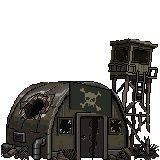
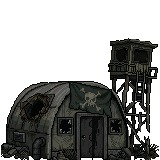
M7 village: Command Post church-style redraw + backlit soldiers + glow, Gym T5 lifter at door scale (sw v387)

diff --git a/sw.js b/sw.js
@@ -15,7 +15,7 @@
  * edited CSS/JS) so returning users pick up the update instead of serving a
  * stale cached shell forever — the whole point of a version string here.
  */
-const CACHE_NAME = 'deadline-shell-v386';
+const CACHE_NAME = 'deadline-shell-v387';
 
 const APP_SHELL = [
     './',

diff --git a/docs/ART_STYLE.md b/docs/ART_STYLE.md
@@ -400,6 +400,16 @@ Replaces the olive tent camp with a military QUONSET BUNKER (Claude's suggestion
 - **For wiring:** visible art x T1 1..158 (1 px margin), T2-T4 2..156, T5 2..159 (flag, 0 px margin, accepted as with the Police station), so `VILLAGE_ART_X.slain` ~ [1,160] (measure the five PNGs). Top row T1 38, T2 37, T3/T4 28, T5 6 (flag). Every tier's lowest row is 159 (walls stand on it, no light spill), like the Police station; check the `raise` against the Gym/Police when placed. Animation spots: the siren (T5), the antenna's red light (T5), the sign lamp, the string lights, the flag.
 - **Lessons (2026-11-15):** (1) transplanting a part from another seed (the tower) beat re-describing it; (2) inpaint-v3 is weak for thin/tall things over sky (weeds, a lantern): drew those in code or redid them as low PixelLab clumps; (3) do geometry (tilts, leg/ladder damage) on the upright part first, then rotate the finished layer, so the damage stays lined up; (4) when moving/tilting a sign, inpaint what was hidden behind it; (5) the device bridge again left 3 files stale after `written` -- always re-stage and compare.
 
+### Command Post CHURCH-STYLE redraw (`slain`) -- DONE + WIRED 2026-11-17 (sw v387; supersedes the look of the 2026-11-15 art above, same Quonset layout)
+Why (Jeremy 2026-11-17): next to the church, Police and Gym the Quonset read as cartoonish -- thick pure-black lines, shiny white roof streaks, flat lemon windows, warmer/more saturated. Kept: every shape, prop and tier story of the 2026-11-15 ladder.
+- **Style pass:** PixelLab `edit-images-v2` `edit_with_text`, seed 6, one 160x160 image per call ("Too many frames: 2, max is 1"), prompt = keep shapes; realistic gritty moody night church look; MATTE weathered olive-drab corrugated roof, no shiny highlights; thin dark outlines not pure black. Then in code: keep the pass's LUMA, take Cb/Cr from the original (x0.62/0.68/0.74/0.76/0.78 for T1..T5, a touch cooler), mean luma 15/20/25/28/31 (Police-like ladder), lights re-coloured lemon -> amber (255,212,150), stray white edge pixels cleaned. Shape preserved exactly (original alpha reused).
+- **Soldiers:** big enough for eye pixels, NO eye whites, lit like the T5 jeep gunner (dark blue-grey helmet, plain olive uniform, shaded skin). Tower guards are BACKLIT by the shack window: no glow on their window box, faint warm rim only. Palette pass = `scripts/cp_guard_palette.py` (rank-maps helmet / skin / uniform pixels onto the gunner's colours). T4: standing watch, low-brim helmet (inpaint seed 71). T5: aiming a rifle (inpaint seed 61). Jeep (T5): gunner standing at the mounted gun + driver (inpaint seed 41 over the crew-less T4 jeep, then a low-frequency tone match so no box shows).
+- **Glow (see-through, `scripts/cp_glow.py`):** tower windows T3-T5 (k 0.20/0.22/0.25, r 12), sign lamp cone + bloom T3-T5, front windows (wall only), T2 candle, T5 red siren + antenna tip + string-light halos, jeep HEADLIGHTS on T4-T5 (lamps + short beam forward-down). T3/T4 22 semi-transparent px, T5 ~180.
+- **Door:** dark at T1-T3, lighter steel grey at T4/T5 (from the style pass; left as "maintained steel").
+- **Files:** finals `Assets/Village/_source/command-church/command_t1..t5_final_160x160.png` (Jeremy's PixelLab clean-ups; T5 edited), drafts `*_church_draft_*`, ladder `command_church_ladder_t1_t5_3x.png`; wired as `slain_t1..t5.png`. Gallery: "Deadline Command Post T1..T5 CHURCH-STYLE DRAFT" (Jeremy edited those in place). Visible x 1..159 as before, `VILLAGE_ART_X.slain` [1,160] unchanged.
+- **Lessons (2026-11-17):** (1) a PixelLab style pass + "luma from the pass, colour from the original" keeps tier colour stories (rust, olive, wood) that a raw style pass flattens; (2) to remove a figure, rebuild the background from a lower tier with the same geometry (tone-matched), then inpaint; (3) inpaint boxes: a low-frequency gain match (blurred bg / blurred patch) removes the box and keeps the detail; (4) pale camo reads as skin and as "lit from above" -- prompt "plain dark olive, no camouflage, lit from behind"; (5) a figure in a lit window must NOT take that window's glow; (6) edit-images-v2 is 1 image per call at 160x160; (7) the device bridge again left one write stale: re-stage and compare pixels after every commit.
+- **Gym T5 lifter (same session):** the squatter was too big for the door (~60px standing vs a 46px door); now stands in the rack, bar on his back, ~46px (`gym-metal/gym_t5_final_192x160.png` = `lurkers_t5.png`; old one `gym_t5_final_big_lifter_192x160.png`). Pendant cone redrawn over the rack (k 0.17 -> 0.025 down to the floor).
+
 ### Hospital (`habits`, back-row Wide 160x128) -- ALL FIVE TIERS DONE 2026-11-15 (WIRED 2026-11-15, sw v380)
 Replaces the tall front-view 128x160 placeholder (`habits_t1..t5.png`, all the old T3). Identity on every tier: sage-green stucco TWO-storey 1920s hospital (Jeremy chose 2 storeys after seeing 3: at back-row detail a 3-storey block squeezed the door to ~20 px), cream quoins/cornice/floor band, flat roof with the dark GREEN-CROSS sign board (identifier), three upper + two lower sash windows, glass double entrance under a lit arch transom, black fire escape on the shaded left wall, one-storey ER wing on the right whose ROOF FACE carries the cream ER sign band (RED letters, Jeremy) over a lamp and a dark-framed glass double door set to the LEFT of the wing. Back-row detail: windows ~9x14, entrance ~13x26, ER door ~19x25. Finals: `Assets/Village/_source/hospital-3q/hospital_t1..t5_final_160x128.png` (+ `hospital_ladder_t1_t5_2x.png`, `hospital_layout_guide_v3_160x128_whitebg.png`, the PixelLab sources `hospital_t3_pixellab_505-2.png` (body), `_505-1_fire_escape.png`, `_202-3_er_wing.png`; the `*_approved_*` files are pre-clean-up copies). Also in Jeremy's PixelLab gallery as "Deadline Hospital T1..T5 (for clean-up)". The T3 final IS Jeremy's PixelLab clean-up.
 - **How T3 was made:** first batches came out three-storey (the old hospital as an identity reference pulled them back to 3 storeys) and then too TURNED (side wall too wide); the fix was a layout guide with a NARROW side wall (~1/5 of the front) + the Police T3 as the camera reference. The best pick (seed 505-2) was mostly the guide's FLAT colours with outlines, so it got two `edit-images-v2` passes (`edit_with_text`: texture, then outlines/shading -- `edit_with_reference` with the Police T3 turned it into tan brick + a police car; with a grimy reference it went T1-dark). Then: fire escape transplanted from seed 505-1, glass entrance + lit lobby (inpaint), upstairs-left window darkened (T3 = 3 lit windows + lobby, leaving room for T4/T5), box (Type III) ambulance with red stripe / blue Star of Life / red-blue lights (inpaint; no red cross anywhere), left bush moved to the corner, ER wing roof + sign + lamp + door transplanted from seed 202-3 and stretched to the wing width / back-row door height, art moved down 10 px to stand on row 127.

diff --git a/docs/DECISIONS.md b/docs/DECISIONS.md
@@ -4,6 +4,15 @@ Append-only. Newest at top. Format: date — decision — why — alternatives r
 
 ---
 
+## 2026-11-17 (Command Post church-style redraw + backlit soldiers + Gym T5 lifter) -- Claude app session, Opus 5.5, PixelLab API + code; Jeremy ("I mainly don't want anything to look cartoonlike"; "the guy doing squats looks like he wouldn't fit through the door")
+- **Command Post restyled to match the church / Police / Gym** -- why: next to them the Quonset read as the most cartoonish (thick pure-black lines, shiny white roof streaks, flat lemon windows, warmer and more saturated). How: one PixelLab `edit-images-v2` `edit_with_text` pass per tier (seed 6, same prompt; this endpoint takes ONE 160x160 image per call) describing the church look + a MATTE weathered olive roof; then the LUMA (texture/shading) of that pass was kept and the COLOUR (Cb/Cr) taken from the original, desaturated (x0.62..0.78 by tier) and cooled slightly, with mean luma set to a Police-like ladder (T1 15 / T2 20 / T3 25 / T4 28 / T5 31). Rejected: the raw PixelLab pass (lost the olive and the brown tower wood, every tier too dark and too alike).
+- **Soldiers bigger and realistic, lit like the jeep gunner** -- Jeremy likes the soldiers; asked for them big enough to show eye pixels like the cops, no eye whites, nothing cartoonish. T5 jeep gunner + driver redrawn (inpaint over the T4 jeep without crew). Tower guards (T4 standing watch with a low-brim helmet, T5 aiming a rifle) were inpainted, then REPAINTED in code with the gunner's palette by brightness rank (helmet dark blue-grey, skin, olive uniform; eye whites -> dark). Rejected: first takes (anime/round faces, pale camo that read as lit from above).
+- **Light from the shack windows is BEHIND the guards:** no glow lands on the guard's window box; only a faint warm rim where the figure touches the pane. Window glow reduced (k 0.20-0.25, radius 12).
+- **See-through glow added** (ART_STYLE "Light technique"): tower windows (T3-T5), gooseneck sign lamp cone onto the sign (T3-T5), red siren + antenna tip and string-light halos (T5), front windows + the T2 candle (wall only), and the JEEP HEADLIGHTS ON (T4-T5; Jeremy).
+- **Gym T5 lifter at door scale:** the squatter (~60px standing) could not fit through the 46px door; now he stands in the rack at the top of the squat with the bar on his back (~46px; same bald, grey-beard, black-tee lifter). Old version kept as `_source/gym-metal/gym_t5_final_big_lifter_192x160.png`. Pendant light cone redrawn over the rack. The boxer (~49px) stays (Jeremy: one building a bit bigger is OK).
+- **Wired:** Jeremy's PixelLab clean-ups are the finals (`_source/command-church/command_t1..t5_final_160x160.png`; T1-T4 unchanged from the drafts, T5 149 px edited) copied over `Assets/Village/slain_t1..t5.png`; Gym T5 over `lurkers_t5.png` + `gym-metal/gym_t5_final_192x160.png`. Art extents unchanged (`slain` visible x 1..159, `lurkers` T5 3..189), so `VILLAGE_ART_X` stays. sw v386 -> v387. No balance numbers touched.
+- **Later (Jeremy):** once ALL building art is updated, show each building's art much larger in its building window (ROADMAP).
+
 ## 2026-11-17 (wiring the metal Gym + Police T5 glow) -- Claude app session, Sonnet 5.5; Jeremy ("lets wire in the new gym artwork and swap out the police station t5 with the transparent glow for the spotlight")
 - **The metal Gym is live:** `Assets/Village/lurkers_t1..t5.png` are now `_source/gym-metal/gym_t1..t5_final_192x160.png` (192x160, same canvas, same prop spots). The clapboard art is kept in `_source/gym-3q`. `CONFIG.VILLAGE_ART_X.lurkers` (and the `villageLayout.js` DEFAULTS copy) [2,191] -> [3,191], measured from the five PNGs (visible columns 3..190); `right: -323` unchanged, so the art's left edge moves 1px right and nothing else shifts.
 - **Police station T5 glow:** `defense_t5.png` was already the see-through-glow version (identical to `_source/police-brick/police_t5_final_160x160.png`), so nothing was swapped; the sw bump below is what ships it.

diff --git a/sessions/HANDOFF.md b/sessions/HANDOFF.md
@@ -11,6 +11,12 @@ Newest entry at TOP. Every session appends one entry before ending (use `/end-se
 **Watch out:** gotchas discovered this session
 ```
 
+## 2026-11-17 — Command Post church-style redraw + backlit soldiers + Gym T5 lifter, wired (Opus 5.5, Claude app, PixelLab API + code)
+**Did:** Restyled the Command Post T1-T5 to match the church / Police / Gym (PixelLab style pass, colour from the originals, Police-like brightness ladder, amber windows); soldiers redrawn bigger and realistic, lit like the T5 jeep gunner (no eye whites), tower guards BACKLIT; see-through glow on the tower windows, sign lamp, T5 siren / antenna / string lights, front windows, and jeep headlights ON (T4-T5). Gym T5 lifter shrunk to door scale. Jeremy cleaned all six in PixelLab; his files are the finals, wired: `Assets/Village/slain_t1..t5.png` + `lurkers_t5.png` (finals in `_source/command-church/` and `_source/gym-metal/`). sw v386 -> v387. ROADMAP: both items checked + a LATER item (bigger building art in the building window, after all art is done). ART_STYLE "Command Post CHURCH-STYLE redraw", DECISIONS 2026-11-17 (Command Post church-style).
+**State:** Every written file re-staged and pixel-compared (one stale write caught and redone). `test/villageLayout.test.js` 146/146 in a cloud copy (all village PNGs copied, so the PNG extent checks ran). Full `npm test` NOT run. NOT live-checked on a phone. `VILLAGE_ART_X` unchanged (extents identical). ~260 PixelLab generations used (831 -> 571).
+**Next:** Jeremy checks the Command Post (`?armoryTier=1..5`) and Gym T5 (`?gymTier=5`) on a phone (Settings = v387), runs `npm test`, commits. Then the next building's art (Clock tower back Narrow tall; Windmill / Radio far) or the Village 2.0 re-arrangement.
+**Watch out:** device_bash failed again all session (stage / commit through the bridge worked). The Command Post T5 has ~180 semi-transparent glow pixels and T3/T4 22: keep them when editing. Scripts for this redraw are NOT in the repo (cloud workspace only; `cp_glow.py` / `cp_guard_palette.py` recipe is in ART_STYLE). Rotate the PixelLab API key (it was pasted in chat).
+
 ## 2026-11-17 — Wire the metal Gym + ship the Police T5 glow (Sonnet 5.5, Claude app)
 **Did:** `Assets/Village/lurkers_t1..t5.png` are now the galvanized-metal Gym finals (`_source/gym-metal/gym_t*_final_192x160.png`). `VILLAGE_ART_X.lurkers` [2,191] -> [3,191] in `js/config.js` and the `js/villageLayout.js` DEFAULTS (measured: visible columns 3..190 across the five tiers). sw v385 -> v386, which also delivers the Police T5 see-through glow (`defense_t5.png` was already the glow file, byte-identical to the `police-brick` final). Docs: ROADMAP (wiring checked), ART_STYLE "Gym METAL redraw" (wired), DECISIONS 2026-11-17 (wiring).
 **State:** Written through the device link (device_bash failed). Jest in a cloud copy of `test/villageLayout.test.js`: every Gym test green, including the lurkers art-extent measurement and the 5 shipped-tier checks; the other kinds' PNG checks could not run there (their PNGs were not copied), so the full file was not green. `appVersion` not run (needs `js/ui/settingsView.js`). Full `npm test` NOT run. NOT live-checked on a phone or desktop.

diff --git a/docs/ROADMAP.md b/docs/ROADMAP.md
@@ -327,6 +327,9 @@ Scoped from a structured live playtest.
     - [x] High school art T1-T5 (back Wide 160x128) -- 2026-11-16 (Opus 5.5, PixelLab API + code; Knights blue shield, marquee, flagpole, oak, bus; T5 survivor flag, lookout, floodlight, crossing guard); finals in `Assets/Village/_source/school-3q/school_t1..t5_final_160x128.png`, see ART_STYLE "High school".
     - [x] High school WIRED -- 2026-11-16 (Sonnet 5.5, sw v383): `Assets/Village/heroes_t1..t5.png` = the 160x128 finals (old 128x128 art in `_source/americana-school/heroes_old_t*_128x128.png`); canvas 160x128, `VILLAGE_ART_X.heroes` [2,158], back-row `right` -118 unchanged (right edge fixed, grows left); also ships the Police lobby doors to phones. Narrow-field overlaps pinned (Command Post over School 5 / 35 / 54px at 800 / 700 / 640; School over Hospital 22px at 640). Not live-checked.
     - [x] Police station lit doors show the inside (T3-T5) -- 2026-11-16 (Opus 5.5, PixelLab inpaint): lobby with a wooden front desk + wanted-poster board + ceiling light; `_source/police-3q/police_t3..t5_final_160x160.png` AND `Assets/Village/defense_t3..t5.png` updated (same names). Needs an sw bump to reach phones (do it with the High school wiring).
+    - [x] **Command Post CHURCH-STYLE redraw + bigger realistic soldiers + see-through glow + jeep headlights** (DONE + WIRED 2026-11-17, Opus 5.5, PixelLab API + code; Jeremy's PixelLab clean-ups are the finals `Assets/Village/_source/command-church/command_t1..t5_final_160x160.png` = `slain_t1..t5.png`; art extent unchanged, `VILLAGE_ART_X.slain` [1,160]; sw v387; village layout suite 146/146 in a cloud copy; full `npm test` + phone check owed; ART_STYLE "Command Post CHURCH-STYLE redraw").
+    - [x] **Gym T5 lifter at door scale** (DONE + WIRED 2026-11-17: standing in the rack, bar on his back, ~46px = door height; `lurkers_t5.png` = `gym-metal/gym_t5_final_192x160.png`, old one `gym_t5_final_big_lifter_192x160.png`; extent unchanged; sw v387).
+    - [ ] **LATER (Jeremy 2026-11-17, after ALL building art is updated): show each building's art much LARGER in its building window** (when a building is tapped). Decide the best way then (scale, crisp nearest-neighbour, which tier shows, layout on phones).
     - [ ] Clock tower (back Narrow tall ~112x208); Windmill, Radio (far). Same workflow.
     - [ ] Wire the REST of the new art (the Gym and the Police station are done, see above): canvas sizes per kind, `VILLAGE_ART_X`, spots + row raises 60/95, hill backdrop slope, building-card sprites; run the 32x32 tap check at 800x360 with every building at T5.
     - [ ] Animations later: boxer (T4/T5), squatter (T5), flag, lantern/sign flicker (code); Hospital: helicopter rotor (T5), ambulance lights (T4/T5).
